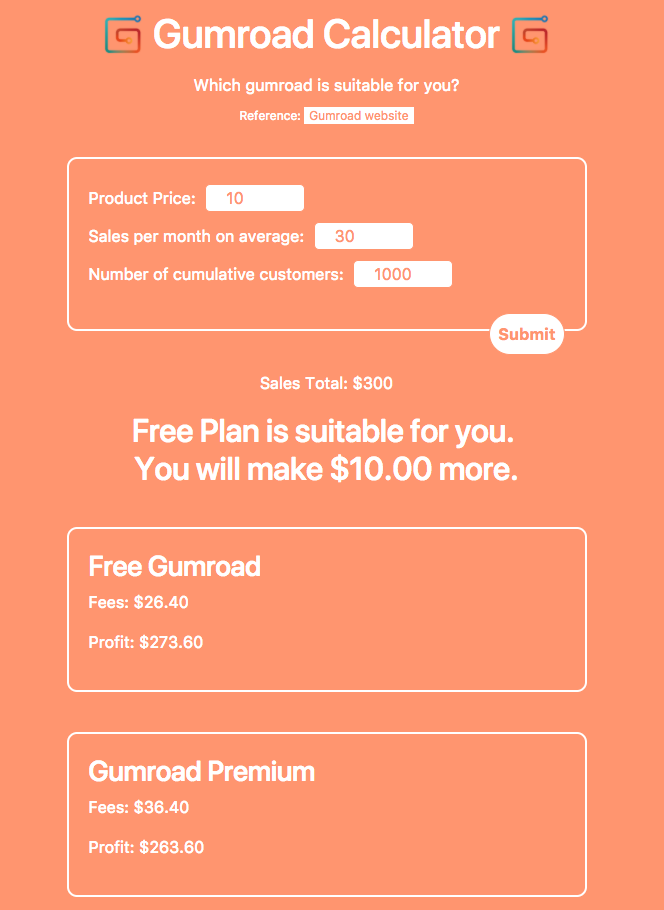
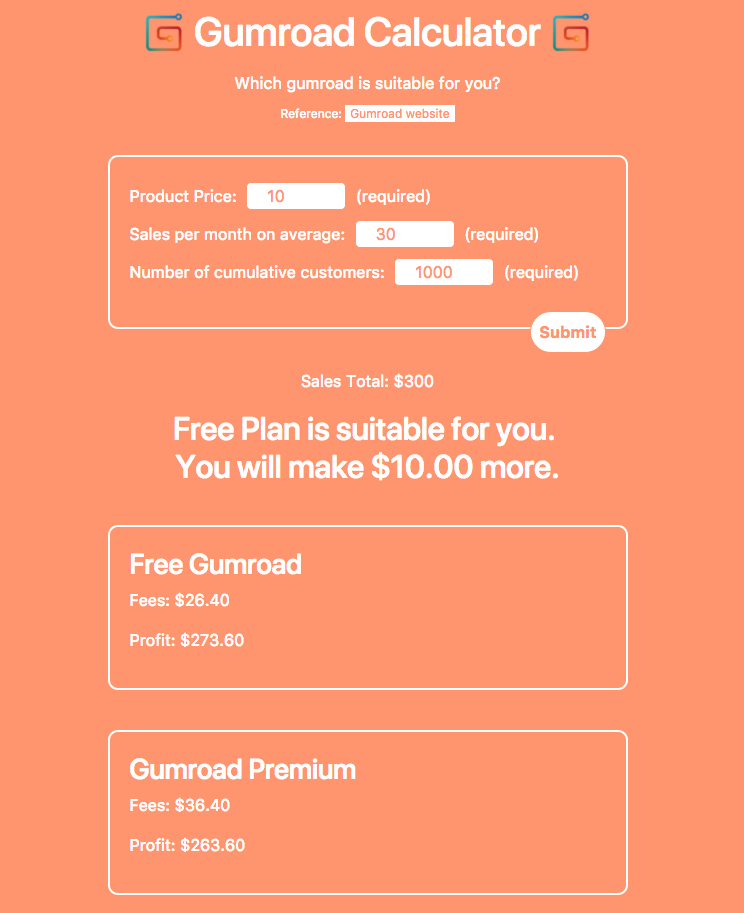
change graph

diff --git a/index.html b/index.html
@@ -29,9 +29,9 @@
 
   <div id="calculateForm">
     <form name="gumroadForm">
-      Product Price: <input type='number' name="productPrice" min="0" required class="inputNum"><br>
-      Sales per month on average: <input type='number' name="salesPerMonth" min="0" required  class="inputNum"><br>
-      Number of cumulative customers: <input type='number' name="cumCustomerNo" min="0" required  class="inputNum"><br>
+      Product Price: <input type='number' name="productPrice" min="0" required class="inputNum"> (required)<br>
+      Sales per month on average: <input type='number' name="salesPerMonth" min="0" required  class="inputNum"> (required)<br>
+      Number of cumulative customers: <input type='number' name="cumCustomerNo" min="0" required  class="inputNum"> (required)<br>
       <input type="button" id="submitButton" onclick="calculate(this.form)" value="Submit">
     </form>
   </div>
@@ -60,8 +60,6 @@
     <footer>
       <div>
       Written and Coded By <a href="http://yingjiehu.com" target="_blank" class="icon-color">Yingjie Hu</a> with <span class="content-color" style="color:red"><i class="fas fa-heart"></i></span><br>
-      View <a href="https://github.com/huyingjie/gumroad-plan-calculator" target="_blank" class="content-color">source code</a> at GitHub and latest
-      <a href="http://gumroadcalculator.yingjiehu.com/" target="_blank" class="content-color">updated website</a><br>
       <a href="https://www.patreon.com/yingjie">Donate</a>
     </div>
     </footer>
